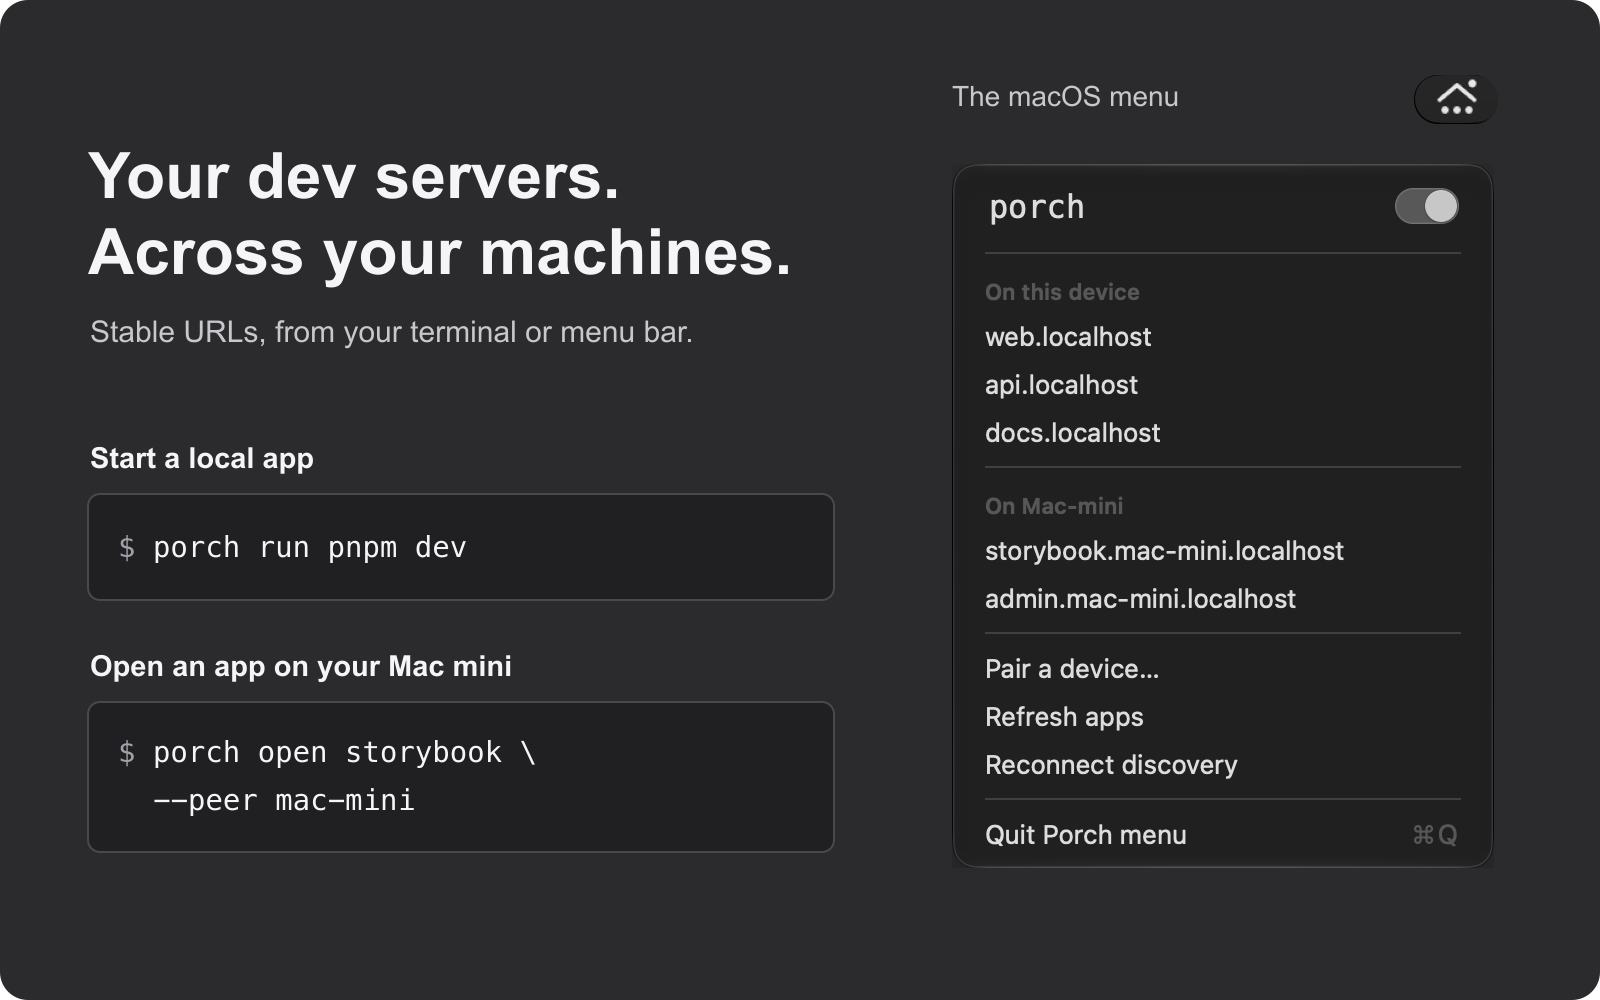
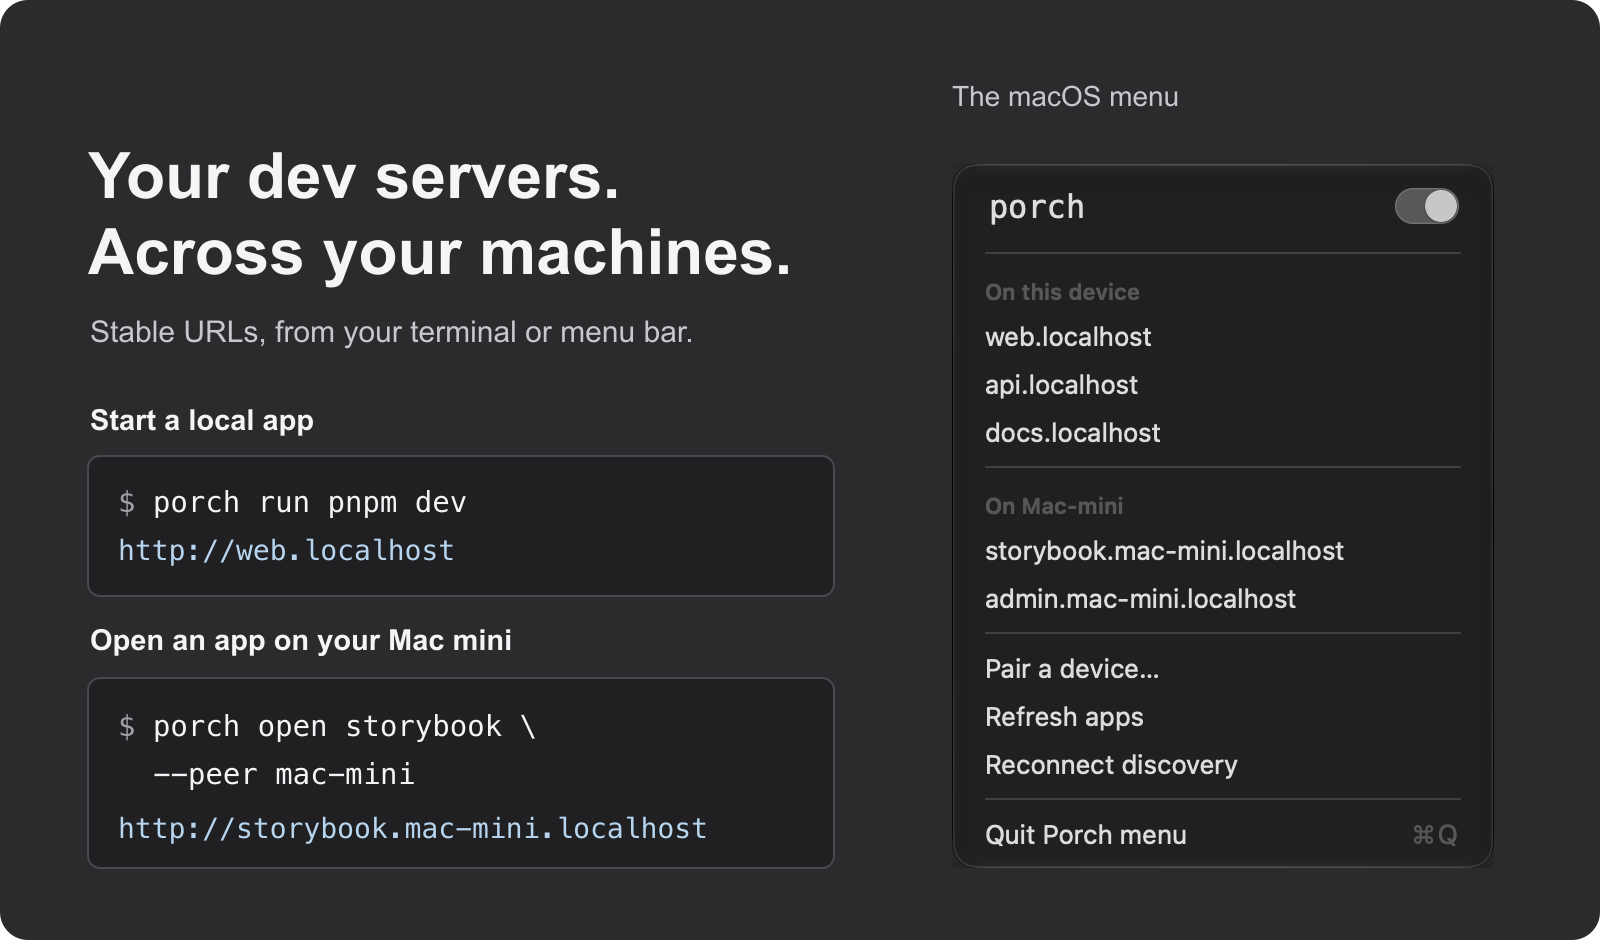
fix: correct tray startup and README first-run paths

diff --git a/assets/screenshots/generate-hero.py b/assets/screenshots/generate-hero.py
@@ -14,27 +14,27 @@ with tempfile.TemporaryDirectory() as directory:
     work = Path(directory)
     # Crop only transparent padding; preserve the actual native menu pixels.
     subprocess.run(['magick', str(ROOT / 'menu-bar.png'), '-crop', '542x704+98+79', '+repage', str(work / 'menu.png')], check=True)
-    svg = f'''<svg xmlns="http://www.w3.org/2000/svg" xmlns:xlink="http://www.w3.org/1999/xlink" width="1600" height="1000" viewBox="0 0 1600 1000">
-<rect width="1600" height="1000" rx="28" fill="#2b2b2e"/>
+    svg = f'''<svg xmlns="http://www.w3.org/2000/svg" xmlns:xlink="http://www.w3.org/1999/xlink" width="1600" height="940" viewBox="0 0 1600 940">
+<rect width="1600" height="940" rx="28" fill="#2b2b2e"/>
 <g font-family="Arial, sans-serif" fill="#f5f5f7">
   <text x="88" y="198" font-size="64" font-weight="700">Your dev servers.</text>
   <text x="88" y="274" font-size="64" font-weight="700">Across your machines.</text>
   <text x="90" y="342" font-size="30" fill="#c7c7cc">Stable URLs, from your terminal or menu bar.</text>
-  <text x="90" y="468" font-size="29" font-weight="700">Start a local app</text>
-  <text x="90" y="676" font-size="29" font-weight="700">Open an app on your Mac mini</text>
+  <text x="90" y="430" font-size="29" font-weight="700">Start a local app</text>
+  <text x="90" y="650" font-size="29" font-weight="700">Open an app on your Mac mini</text>
   <text x="952" y="106" font-size="28" fill="#c7c7cc">The macOS menu</text>
 </g>
 <g fill="#202023" stroke="#48484d" stroke-width="2">
-  <rect x="88" y="494" width="746" height="106" rx="12"/>
-  <rect x="88" y="702" width="746" height="150" rx="12"/>
+  <rect x="88" y="456" width="746" height="140" rx="12"/>
+  <rect x="88" y="678" width="746" height="190" rx="12"/>
 </g>
 <g xml:space="preserve" font-family="Menlo, monospace" font-size="29" fill="#f5f5f7">
-  <text x="118" y="557"><tspan fill="#a0a0a8">$ </tspan>porch run pnpm dev</text>
-  <text x="118" y="762"><tspan fill="#a0a0a8">$ </tspan>porch open storybook \\</text>
-  <text x="153" y="810">--peer mac-mini</text>
+  <text x="118" y="512"><tspan fill="#a0a0a8">$ </tspan>porch run pnpm dev</text>
+  <text x="118" y="736"><tspan fill="#a0a0a8">$ </tspan>porch open storybook \\</text>
+  <text x="153" y="784">--peer mac-mini</text>
+  <text x="118" y="560" font-size="28" fill="#b7d5ef">http://web.localhost</text>
+  <text x="118" y="838" font-size="28" fill="#b7d5ef">http://storybook.mac-mini.localhost</text>
 </g>
-<defs><clipPath id="icon"><rect x="1414" y="75" width="84" height="49" rx="24"/></clipPath></defs>
-<image clip-path="url(#icon)" x="1414" y="66" width="84" height="64" xlink:href="{data(ROOT / 'menu-bar-icon.png')}"/>
 <image x="952" y="164" width="542" height="704" xlink:href="{data(work / 'menu.png')}"/>
 </svg>'''
     source = work / 'hero.svg'

diff --git a/tests/tray_launch.rs b/tests/tray_launch.rs
@@ -1,0 +1,67 @@
+//! Exercise the installed CLI layout without opening a real desktop tray.
+use std::{
+    fs,
+    process::Command,
+    thread,
+    time::{Duration, Instant},
+};
+
+#[test]
+fn tray_launches_sibling_and_preserves_cli_and_state_paths() {
+    let suffix = std::env::consts::EXE_SUFFIX;
+    let current = std::env::current_exe().unwrap();
+    if current.file_name().unwrap() == format!("porch-tray{suffix}").as_str() {
+        let record = serde_json::json!({
+            "cli": std::env::var("PORCH_BIN").unwrap(),
+            "state": std::env::var("PORCH_STATE_DIR").unwrap(),
+        });
+        fs::write(
+            std::env::var_os("PORCH_TRAY_TEST_RECORD").unwrap(),
+            record.to_string(),
+        )
+        .unwrap();
+        return;
+    }
+
+    let temp = std::env::temp_dir().join(format!(
+        "porch-tray-launch-{}-{}",
+        std::process::id(),
+        std::time::SystemTime::now()
+            .duration_since(std::time::UNIX_EPOCH)
+            .unwrap()
+            .as_nanos()
+    ));
+    fs::create_dir(&temp).unwrap();
+    let cli = temp.join(format!("porch{suffix}"));
+    let tray = temp.join(format!("porch-tray{suffix}"));
+    let state = temp.join("state");
+    let record = temp.join("launched.json");
+    fs::copy(env!("CARGO_BIN_EXE_porch"), &cli).unwrap();
+    // The child test binary acts as the tray and records the launch environment.
+    fs::copy(current, tray).unwrap();
+    let output = Command::new(&cli)
+        .arg("tray")
+        .env("PORCH_STATE_DIR", &state)
+        .env("PORCH_TRAY_TEST_RECORD", &record)
+        .output()
+        .unwrap();
+    assert!(
+        output.status.success(),
+        "{}",
+        String::from_utf8_lossy(&output.stderr)
+    );
+    let deadline = Instant::now() + Duration::from_secs(10);
+    let launched = loop {
+        if let Ok(bytes) = fs::read(&record) {
+            if let Ok(value) = serde_json::from_slice::<serde_json::Value>(&bytes) {
+                break value;
+            }
+        }
+        assert!(Instant::now() < deadline, "tray did not record its launch");
+        thread::sleep(Duration::from_millis(25));
+    };
+    assert_eq!(launched["cli"], cli.to_string_lossy().as_ref());
+    assert_eq!(launched["state"], state.to_string_lossy().as_ref());
+    // The detached child may still be exiting on Windows; cleanup is best effort.
+    let _ = fs::remove_dir_all(temp);
+}

diff --git a/src/cli.rs b/src/cli.rs
@@ -17,7 +17,7 @@ use std::{
     version,
     about = "Stable named URLs for local development",
     long_about = "Stable named URLs for local development.\n\nPorch runs your dev command on a free port and serves it at a name you choose, such as http://web.localhost. Run `porch` in a package or workspace root to start its dev script.",
-    after_help = "Examples:\n  porch                         Run this package's dev script (every package at a workspace root)\n  porch run pnpm dev            Run a command, naming the app after the package\n  porch api node server.js      Run a command as api.localhost\n  porch alias db 5432           Route db.localhost to an existing port\n  porch list                    Show routes and their health\n  porch setup                   Guided first run (HTTPS, port, start at login)\n  porch doctor --fix            Find and fix common problems\n\nDocs: https://github.com/akshitkrnagpal/porch/blob/main/docs/reference.md",
+    after_help = "Examples:\n  porch                         Run this package's dev script (every package at a workspace root)\n  porch run pnpm dev            Run a command, naming the app after the package\n  porch api node server.js      Run a command as api.localhost\n  porch alias storybook 6006    Give an existing HTTP server a named URL\n  porch list                    Show routes and their health\n  porch setup                   Guided first run (HTTPS, port, start at login)\n  porch doctor --fix            Find and fix common problems\n\nDocs: https://github.com/akshitkrnagpal/porch/blob/main/docs/reference.md",
     disable_version_flag = true
 )]
 struct Cli {
@@ -215,7 +215,7 @@ enum Commands {
     Tray,
     /// Route a name to something Porch didn't start (a port, Docker container or URL)
     #[command(
-        after_help = "Examples:\n  porch alias db 5432\n  porch alias grafana http://127.0.0.1:3001\n  porch alias --remove db"
+        after_help = "Examples:\n  porch alias storybook 6006\n  porch alias grafana http://127.0.0.1:3001\n  porch alias --remove storybook"
     )]
     Alias {
         /// Name for the route

diff --git a/src/discovery/commands.rs b/src/discovery/commands.rs
@@ -518,7 +518,8 @@ pub fn print_snapshot(snapshot: Snapshot, json: bool) -> Result<()> {
     Ok(())
 }
 pub fn launch_tray() -> Result<()> {
-    let sibling = std::env::current_exe()?.with_file_name("porch-tray");
+    let sibling = std::env::current_exe()?
+        .with_file_name(format!("porch-tray{}", std::env::consts::EXE_SUFFIX));
     if !sibling.is_file() {
         bail!("porch-tray is not installed beside porch; install the desktop package or build with --features tray --bin porch-tray")
     }

diff --git a/README.md b/README.md
@@ -12,7 +12,7 @@
   <a href="https://github.com/akshitkrnagpal/porch/releases/latest"><img alt="Latest release" src="https://img.shields.io/github/v/release/akshitkrnagpal/porch?label=release"></a>
   <a href="https://github.com/akshitkrnagpal/porch/actions/workflows/ci.yml"><img alt="CI" src="https://img.shields.io/github/actions/workflow/status/akshitkrnagpal/porch/ci.yml?branch=main&label=CI"></a>
   <a href="LICENSE"><img alt="MIT license" src="https://img.shields.io/github/license/akshitkrnagpal/porch"></a>
-  <img alt="macOS, Linux and Windows" src="https://img.shields.io/badge/platform-macOS%20%7C%20Linux%20%7C%20Windows-555">
+  <img alt="macOS, Linux and Windows (preview)" src="https://img.shields.io/badge/platform-macOS%20%7C%20Linux%20%7C%20Windows%20%28preview%29-555">
 </p>
 
 <p align="center">
@@ -24,17 +24,12 @@
 </p>
 
 <p align="center">
-  <img src="assets/screenshots/hero.png" alt="Porch command examples beside the real macOS menu: three local apps and storybook and admin on a paired Mac mini" width="800">
+  <img src="assets/screenshots/hero.png" alt="Porch command examples and their URLs beside the real macOS menu, with three local apps and two apps on a paired Mac mini" width="800">
 </p>
 
 Porch runs your dev command on a free port and gives it a name that stays the same across restarts. Pair another machine and open its apps from your terminal or the menu bar.
 
-```sh
-porch run pnpm dev                       # web.localhost, for a package named web
-porch open storybook --peer mac-mini     # storybook.mac-mini.localhost, after pairing
-```
-
-Your app receives its port as `PORT`. The menu above uses demo data: three apps on this Mac and two on a paired Mac mini. Click a URL to open it; hold Option on macOS to copy it.
+Your app receives its port as `PORT`. The image uses demo apps; the commands below are ready to copy.
 
 ## Install
 
@@ -42,13 +37,25 @@ Your app receives its port as `PORT`. The menu above uses demo data: three apps 
 curl -fsSL https://raw.githubusercontent.com/akshitkrnagpal/porch/main/scripts/install.sh | sh
 ```
 
-macOS and Linux, no sudo or Python needed. The installer verifies the checksum and, if the GitHub CLI is installed, the signed build attestation.
+Installing on macOS and Linux needs no sudo or Python. The installer verifies the checksum and, if the GitHub CLI is installed, the signed build attestation.
 
 **Windows (PowerShell):**
 
 ```powershell
 irm https://raw.githubusercontent.com/akshitkrnagpal/porch/main/scripts/install.ps1 | iex
 ```
+
+On macOS, the script also installs `Porch.app`. Open the menu with `open ~/Applications/Porch.app`. If `porch` is not found, run `export PATH="$HOME/.local/bin:$PATH"` and add that line to your shell profile.
+
+On Linux, the default install is CLI only. For the tray on x86_64 Linux (glibc 2.39+, GTK 3 and an AppIndicator host):
+
+```sh
+curl -fsSL https://raw.githubusercontent.com/akshitkrnagpal/porch/main/scripts/install.sh | PORCH_TRAY=1 sh
+```
+
+There is no prebuilt tray for ARM64 Linux. On Windows, open a new terminal after installing to pick up the updated `PATH`; run `porch-tray.exe` for the tray.
+
+Run `porch setup` for a guided first run, or continue with [Quick start](#quick-start).
 
 **Homebrew** (macOS and Linux, CLI only): `brew install akshitkrnagpal/tap/porch`.
 
@@ -87,16 +94,16 @@ cd my-app
 porch                      # runs the package's "dev" script at http://my-app.localhost
 porch run pnpm dev         # any command; the name comes from package.json or the folder
 porch api node server.js   # choose the name: http://api.localhost
-porch alias db 5432        # name a server Porch didn't start
+porch alias storybook 6006 # name an existing HTTP server (not a database or other TCP service)
 porch list                 # every route and whether it's answering
 porch run -d pnpm dev      # in the background; then porch logs / porch stop
 ```
 
 ```console
 $ porch list
-  HEALTH         URL                    TARGET
-● ok             http://web.localhost   http://127.0.0.1:4480 (pid 28686)
-● not listening  http://db.localhost    http://127.0.0.1:5432
+  HEALTH  URL                         TARGET
+● ok      http://web.localhost        http://127.0.0.1:4480 (pid 28686)
+● ok      http://storybook.localhost  http://localhost:6006
 ```
 
 URLs carry no port when your OS lets Porch serve port 80 without sudo (macOS, Windows, Linux with a lowered `net.ipv4.ip_unprivileged_port_start`). Elsewhere they look like `http://web.localhost:7462`. `porch get NAME` always prints the right one, and `PORCH_CLEAN_URLS=0` keeps port 7462.
@@ -107,8 +114,8 @@ For a guided first run, `porch setup` asks four questions (HTTPS, proxy port, st
 
 ## Features
 
-- **Named URLs with no port and no sudo.** Apps live at `http://web.localhost`, `http://api.localhost` and so on, so bookmarks and OAuth callbacks keep working across restarts. On macOS and Windows Porch serves port 80 (or 443 with HTTPS) as your user. Where the OS doesn't allow that, it uses port 7462, also without sudo.
-- **HTTPS without sudo.** `porch setup` turns on HTTP/2 over TLS with a local CA trusted for your user only.
+- **Named URLs with no port and no sudo.** Apps live at `http://web.localhost`, `http://api.localhost` and so on, so bookmarks and OAuth callbacks keep working across restarts. See [Quick start](#quick-start) for platform requirements and fallback URLs.
+- **HTTPS without sudo.** `porch setup` turns on HTTP/2 over TLS with a local CA trusted for your user only. macOS asks for your password or Touch ID once; `porch trust --system` is available for tools that ignore user trust stores.
 - **Framework flags.** Vite, Astro, Angular, React Router, Rsbuild, Expo, React Native and Wrangler, plus Django, Flask, FastAPI, uvicorn, gunicorn, Streamlit, MkDocs, Jupyter, Hugo, Jekyll and `python -m http.server`, get the right port and host flags with no config.
 - **Monorepos.** Run `porch` at a pnpm, npm, Yarn or Bun workspace root and every package gets its own URL. Turborepo keeps its task graph and TUI.
 - **Other machines.** Pair two machines with a 6-digit code and open each other's apps over your LAN or Tailscale. Traffic is encrypted and pinned to the other machine's certificate.
@@ -122,7 +129,6 @@ For a guided first run, `porch setup` asks four questions (HTTPS, proxy port, st
 - **Public and tailnet URLs:** add `--tailscale`, `--funnel`, `--ngrok` or `--cloudflare` when you launch an app. Porch removes the share when the app exits.
 - **Docker Compose:** `porch compose up` gives each HTTP service a name and a stable port.
 - **Git worktrees:** a linked worktree on branch `fix/login` serves at `login.web.localhost`, so two checkouts of the same app don't collide.
-- **HTTPS:** `porch setup` (or `porch proxy start --https`) serves `https://web.localhost` with HTTP/2 and a local certificate authority trusted for your user only, without sudo (macOS asks for your password or Touch ID once). `porch trust --system` trusts the CA machine-wide for command-line tools that ignore per-user trust stores.
 - **Remote aliases:** `porch alias staging https://staging.example.com` puts a real site behind a local name, with verified TLS, the right `Host` and redirects that stay on the Porch URL.
 - **Phones and tablets:** `--lan` publishes `web.local` over mDNS so other devices on your network can reach the app.
 - **Coding agents:** `porch mcp` runs a stdio MCP server that lets an agent list routes, look up URLs and run diagnostics. Read-only tools can't change anything. Install the skill with `npx skills add akshitkrnagpal/porch`.
@@ -142,7 +148,7 @@ On the machine you're using:
 
 ```console
 $ porch pair 482913
-Paired with mac-mini.local
+Paired with Mac-mini.local
 ```
 
 Both machines can now see each other's apps:
@@ -158,9 +164,9 @@ To keep sharing on after a reboot, run `porch discovery autostart enable` on the
 
 ## Menu bar and tray app
 
-On macOS, open `Porch.app`. On Linux, run `porch tray` (needs GTK 3 and an AppIndicator host). On Windows, run `porch tray` or `porch-tray.exe` to add Porch to the notification area.
+On macOS, run `open ~/Applications/Porch.app` after installing with the script or release archive. On x86_64 Linux, install with `PORCH_TRAY=1` as shown in [Install](#install), then run `porch tray`; GTK 3 and an AppIndicator host are required. ARM64 Linux builds and Homebrew installs contain the CLI only. On Windows, run `porch-tray.exe` to add Porch to the notification area.
 
-The menu lists every app's URL at the top level: this machine's apps first, then each paired machine's (such as `storybook.mac-mini.localhost`), under a heading for each machine. Click a URL to open it; on macOS, hold Option to copy it instead (Linux and Windows show Open and Copy in a small submenu). The switch beside Porch starts or stops the proxy, and the menu also refreshes apps and pairs a new device. The icon's dots are solid while the proxy runs and dimmed when it stops, and a badge appears when a paired machine is reachable. On macOS and Linux, `porch-login enable` starts the app at login.
+The menu lists every app's URL at the top level: this machine's apps first, then each paired machine's (such as `storybook.mac-mini.localhost`), under a heading for each machine. Click a URL to open it; on macOS, hold Option to copy it instead (Linux and Windows show Open and Copy in a small submenu). The switch beside Porch starts or stops the proxy, and the menu also refreshes apps and pairs a new device. The icon's dots are solid while the proxy runs and dimmed when it stops, and a badge appears when a paired machine is reachable. On macOS and Linux, `porch-login enable` starts the app at login (requires Python 3 and an installed tray).
 
 ## Coming from Portless
 

diff --git a/docs/reference.md b/docs/reference.md
@@ -60,7 +60,7 @@ Proxy options: `--port`/`-p`, `--https`, `--no-tls`, `--foreground`, `--skip-tru
 **Matching.** TLDs must be valid DNS labels. When configured TLDs overlap, the longest match wins. Routing is strict by default: with `--wildcard`, a request for an unregistered subdomain goes to the closest registered parent. An exact route always wins. An alias registered with `--tld` applies only to that TLD.
 
 ```sh
-porch alias database 5432
+porch alias storybook 6006
 porch alias web 3000 --force --tld test
 porch alias --remove web --tld test
 porch get web                            # the app's URL, even before it is registered
@@ -69,7 +69,7 @@ porch list                               # routes with health and sharing URLs
 porch list --json                        # routes with health, proxy settings and version
 ```
 
-Aliases can also point at an HTTP or HTTPS URL. For a target that isn't on this machine (`porch alias api https://staging.example.com`), Porch sends the target's own name in `Host` and TLS SNI, verifies its certificate against the system trust store, and rewrites the target's redirects to itself so they stay on the Porch URL. Targets can't carry a query string, fragment or credentials.
+Aliases route HTTP and HTTPS services, not database or other raw TCP protocols. They can also point at an HTTP or HTTPS URL. For a target that isn't on this machine (`porch alias api https://staging.example.com`), Porch sends the target's own name in `Host` and TLS SNI, verifies its certificate against the system trust store, and rewrites the target's redirects to itself so they stay on the Porch URL. Targets can't carry a query string, fragment or credentials.
 
 `--upstream` sets how Porch talks to an alias's port, which it always dials on this computer:
 

diff --git a/packaging/README.md b/packaging/README.md
@@ -33,7 +33,8 @@ Installing doesn't touch running apps, the proxy, sharing, trust stores, the hos
 
 ```sh
 open ~/Applications/Porch.app    # macOS
-porch tray                       # macOS, Linux or Windows; same as running porch-tray directly
+porch tray                       # macOS or Linux, with the tray installed
+porch-tray.exe                   # Windows (including the 0.5.0 release)
 ```
 
 The roof icon opens a menu that lists each app's URL, this machine's first and then each paired machine's, split by separators. Click a URL to open it; on macOS hold Option to copy it instead (Linux and Windows show **Open in browser** and **Copy URL** in a small submenu). The menu also has **Refresh apps**, **Reconnect discovery** and a switch to start or stop the proxy. **Quit Porch menu** closes only the menu: apps, the proxy and the discovery agent keep running. If a CLI action fails, the error appears in the menu. Actions that need sudo have to be run in a terminal.
@@ -56,7 +57,7 @@ At runtime, Ubuntu 24.04 needs `libgtk-3-0t64` and `libayatana-appindicator3-1` 
 
 ## Start the menu at login
 
-Nothing starts at login unless you ask. On macOS and Linux:
+Nothing starts at login unless you ask. The `porch-login` helper needs Python 3 and an installed tray. On macOS and Linux:
 
 ```sh
 porch-login enable

diff --git a/assets/screenshots/README.md b/assets/screenshots/README.md
@@ -5,7 +5,7 @@ web, api and docs on this device; storybook and admin on a paired Mac mini.
 The demo's proxy settings use port 80. `menu-bar-icon.png` is the actual Porch
 status item captured with that menu open. No personal desktop content is included.
 
-`hero.png` places those captures beside illustrative command examples. The
+`hero.png` places the menu capture beside illustrative commands and their example URLs. The
 commands are typeset documentation, not captured terminal output. They are also
 available as copyable text in the main README.
 
@@ -17,4 +17,4 @@ python3 assets/screenshots/generate-hero.py
 
 The generator contains the layout, text and colors. If replacing the native
 menu capture, update its crop rectangle in the generator to match the new image.
-The image is 1600 × 1000 and displayed at 800 pixels wide in the README.
+The image is 1600 × 940 and displayed at 800 pixels wide in the README.
